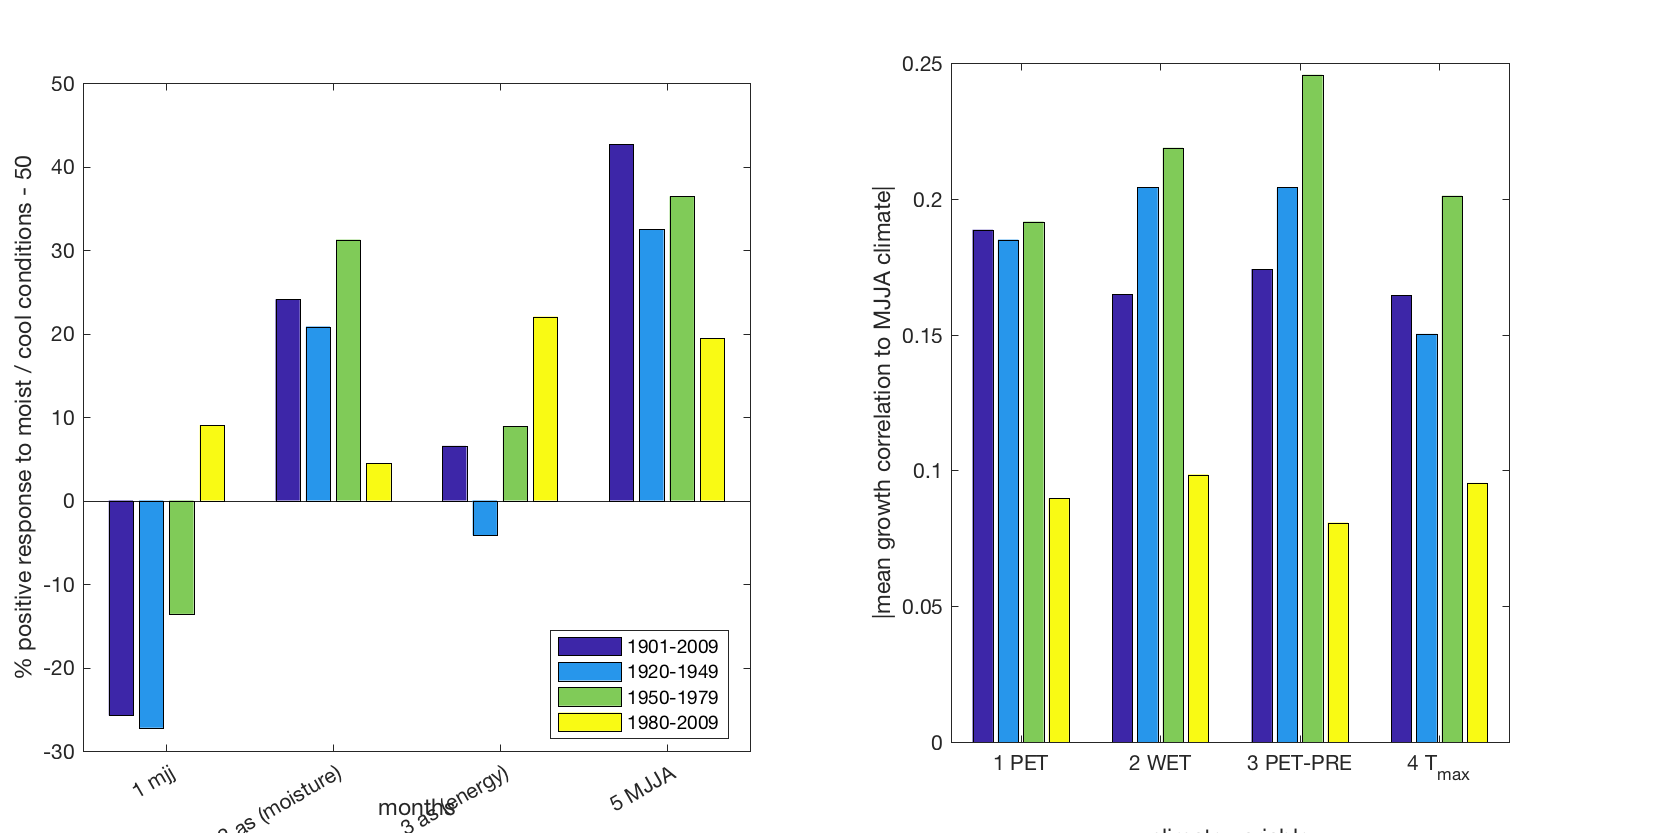
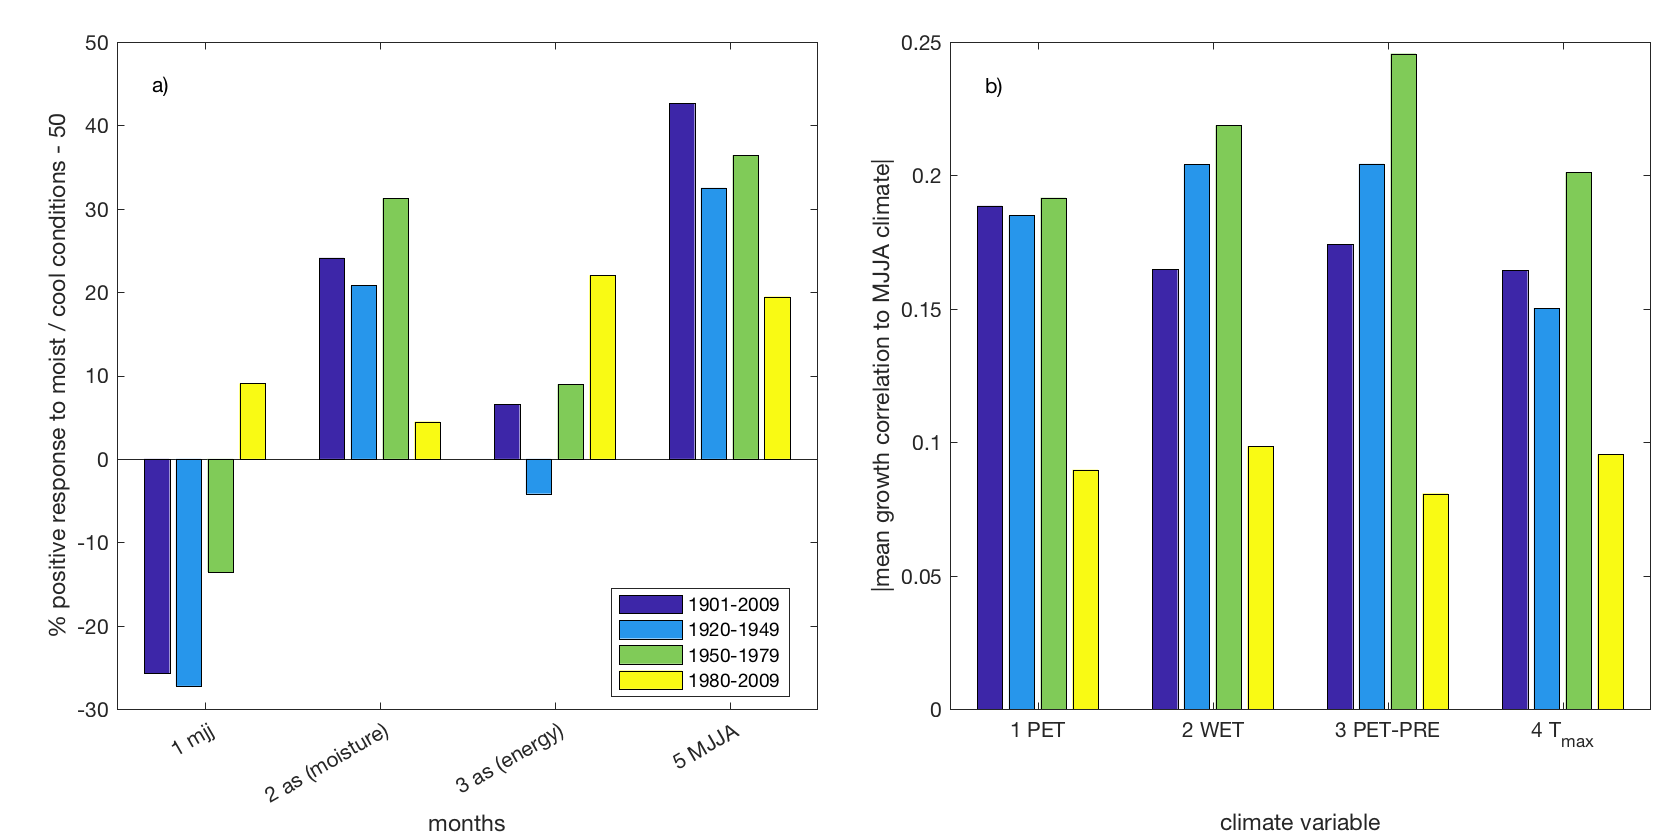
added panel labels

diff --git a/scripts/time_period_comparison_figure.m b/scripts/time_period_comparison_figure.m
@@ -109,6 +109,7 @@ y = [percent_expected_current_gs-50; 50-percent_expected_past_egs; percent_pos_W
 bar (x,y)
 ylabel('% positive response to moist / cool conditions - 50') 
 xlabel('months','Position',[2.5 -42])
+text(0.7,45,'a)'),
 legend({'1901-2009' '1920-1949' '1950-1979' '1980-2009'},'Location','Best')
 
 subplot('Position', [.57,.15,.42, .8])
@@ -117,6 +118,7 @@ y =[abs(mean_corr_PET_mjja); mean_corr_WET_mjja; abs(mean_corr_PETmPRE_mjja); ab
 bar (x,y)
 ylabel('|mean growth correlation to MJJA climate|')
 xlabel('climate variable','Position',[2.5 -.037])
+text(0.7,.234,'b)'),
 
 set(gcf, 'Position',  [700, 700, 800, 400]); shg; %size & display figure
 print('BarPlot','-dpng') %print figure
